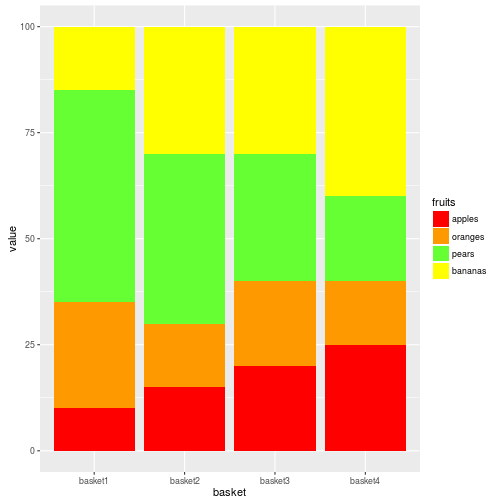
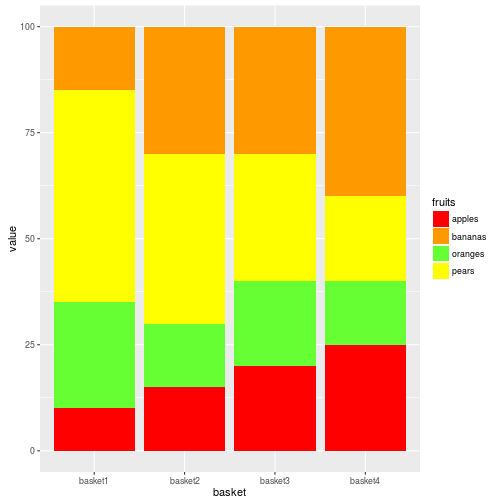
uusi rakenne + r-paketit sktip

diff --git a/R.md b/R.md
@@ -3,20 +3,24 @@ layout: default
 title: "R-kieli"
 author: "Markus Kainu"
 date: "18.02.2016"
+output: 
+ html_document: 
+   toc: true
+   toc_float: true
+   number_sections: yes
 ---
 
 
 
 
-# Datan manipuloiminen
+`Last time updated: **2016-03-03 16:19:23**`
 
-## tidyr & dplyr examples
-
+# Data manipulation
 
 - [tidyr & dplyr cheatsheet](http://www.rstudio.com/wp-content/uploads/2015/01/data-wrangling-cheatsheet.pd)
 - [Garrett Grolemund - Data Wrangling with R slaidit](https://dl.dropboxusercontent.com/u/5896466/wrangling-webinar.pdf)
 
-###  Create the data sets
+##  Create the data sets
 
 ```r
 library(tidyr)
@@ -49,7 +53,7 @@ artists <- data.frame(name = c("George", "John", "Paul", "Ringo"),
                     stringsAsFactors = FALSE)
 ```
 
-### tidyr
+## tidyr
 
 
 ```r
@@ -376,13 +380,7 @@ pollution  %>% group_by(city) %>%
 ```
 
 ```
-## Source: local data frame [3 x 4]
-## 
-##       city  mean   sum     n
-##      (chr) (dbl) (dbl) (int)
-## 1  Beijing  88.5   177     2
-## 2   London  19.0    38     2
-## 3 New York  18.5    37     2
+## Error in n(): This function should not be called directly
 ```
 
 
@@ -394,13 +392,7 @@ pollution %>%
 ```
 
 ```
-## Source: local data frame [3 x 4]
-## 
-##       city  mean   sum     n
-##      (chr) (dbl) (dbl) (int)
-## 1  Beijing  88.5   177     2
-## 2   London  19.0    38     2
-## 3 New York  18.5    37     2
+## Error in n(): This function should not be called directly
 ```
 
 
@@ -415,6 +407,28 @@ pollution %>%
 Error in FUN(X[[1L]], ...) : 
   only defined on a data frame with all numeric variable
 ```
+
+### Rank groups
+
+rank by which "cylinder group" highest total hp. (makes no sense, but was useful)
+
+
+```r
+library(dplyr)
+mtcars %>% 
+  slice(1:10) %>% 
+  select(cyl,hp) %>% 
+  group_by(cyl) %>% 
+  mutate(sum_hp = sum(hp, na.rm = TRUE)) %>% 
+  ungroup() %>% 
+  arrange(sum_hp) %>% 
+  mutate(rank = dense_rank(sum_hp))
+```
+
+```
+## Error in select(., cyl, hp): unused arguments (cyl, hp)
+```
+
 
 ### Järjestä data
 
@@ -482,13 +496,7 @@ pollution  %>% group_by(city) %>%
 ```
 
 ```
-## Source: local data frame [3 x 4]
-## 
-##       city  mean   sum     n
-##      (chr) (dbl) (dbl) (int)
-## 1  Beijing  88.5   177     2
-## 2   London  19.0    38     2
-## 3 New York  18.5    37     2
+## Error in n(): This function should not be called directly
 ```
 
 ```r
@@ -509,20 +517,10 @@ pollution  %>% group_by(city) %>%
 ```
 
 ```
-## Source: local data frame [6 x 6]
-## Groups: city [3]
-## 
-##       city  size amount  mean   sum     n
-##      (chr) (chr)  (dbl) (dbl) (dbl) (int)
-## 1 New York large     23  18.5    37     2
-## 2 New York small     14  18.5    37     2
-## 3   London large     22  19.0    38     2
-## 4   London small     16  19.0    38     2
-## 5  Beijing large    121  88.5   177     2
-## 6  Beijing small     56  88.5   177     2
+## Error in n(): This function should not be called directly
 ```
 
-## join() - merging data.frames
+### join() - merging data.frames
 
 
 ```r
@@ -775,6 +773,21 @@ dplyr::rename(d, newName2=wind, newName3=pressure)
 ## 12  Arthur       45     1010 1996-06-17
 ```
 
+### Rename factor levels
+
+
+```r
+# built-in
+levels(x)[levels(x)=="one"] <- "uno"
+levels(x)[3] <- "three"
+levels(x) <- c("one","two","three")
+
+# plyr
+library(plyr)
+revalue(x, c("beta"="two", "gamma"="three"))
+mapvalues(x, from = c("beta", "gamma"), to = c("two", "three"))
+```
+
 ### Subset data
 
 
@@ -957,7 +970,7 @@ ggplot(data=df,
   scale_fill_manual(values=fill_palette)
 ```
 
-![plot of chunk unnamed-chunk-30](figure/unnamed-chunk-30-1.png)
+![plot of chunk unnamed-chunk-32](figure/unnamed-chunk-32-1.png)
 
 ### Manual ordering
 
@@ -977,7 +990,7 @@ ggplot(data=df,
   scale_fill_manual(values=fill_palette)
 ```
 
-![plot of chunk unnamed-chunk-31](figure/unnamed-chunk-31-1.png)
+![plot of chunk unnamed-chunk-33](figure/unnamed-chunk-33-1.png)
 
 #### Manually match the fills with the fruits
 
@@ -998,7 +1011,7 @@ ggplot(data=df,
   scale_fill_manual(values=fill_palette)
 ```
 
-![plot of chunk unnamed-chunk-32](figure/unnamed-chunk-32-1.png)
+![plot of chunk unnamed-chunk-34](figure/unnamed-chunk-34-1.png)
 
 
 #### Reorder the legend to match the order of the fill
@@ -1018,7 +1031,7 @@ ggplot(data=df,
                     guide = guide_legend(reverse=TRUE))
 ```
 
-![plot of chunk unnamed-chunk-33](figure/unnamed-chunk-33-1.png)
+![plot of chunk unnamed-chunk-35](figure/unnamed-chunk-35-1.png)
 
 #### Reorder the fills manually
 
@@ -1060,7 +1073,7 @@ ggplot(data=dplyr::arrange(df,fruits),
                     guide = guide_legend(reverse=TRUE))
 ```
 
-![plot of chunk unnamed-chunk-35](figure/unnamed-chunk-35-1.png)
+![plot of chunk unnamed-chunk-37](figure/unnamed-chunk-37-1.png)
 
 **With base R**
 
@@ -1079,7 +1092,7 @@ ggplot(data=df[order(df$fruits),],
                     guide = guide_legend(reverse=TRUE))
 ```
 
-![plot of chunk unnamed-chunk-36](figure/unnamed-chunk-36-1.png)
+![plot of chunk unnamed-chunk-38](figure/unnamed-chunk-38-1.png)
 
 
 
@@ -1103,7 +1116,7 @@ ggplot(data=df[order(df$fruits),],
                     guide = guide_legend(reverse=TRUE))
 ```
 
-![plot of chunk unnamed-chunk-37](figure/unnamed-chunk-37-1.png)
+![plot of chunk unnamed-chunk-39](figure/unnamed-chunk-39-1.png)
 
 
 #### Reverse order bars according to oranges share
@@ -1125,7 +1138,7 @@ ggplot(data=df[order(df$fruits),],
                     guide = guide_legend(reverse=TRUE))
 ```
 
-![plot of chunk unnamed-chunk-38](figure/unnamed-chunk-38-1.png)
+![plot of chunk unnamed-chunk-40](figure/unnamed-chunk-40-1.png)
 
 
 
@@ -1152,7 +1165,7 @@ ggplot(data=df[order(df$bar_order),],
                     guide = guide_legend(reverse=TRUE))
 ```
 
-![plot of chunk unnamed-chunk-39](figure/unnamed-chunk-39-1.png)
+![plot of chunk unnamed-chunk-41](figure/unnamed-chunk-41-1.png)
 
 
 #### Match the colors with the fruits
@@ -1176,7 +1189,7 @@ ggplot(data=df[order(df$bar_order),],
   scale_fill_manual(values=fill_palette2)
 ```
 
-![plot of chunk unnamed-chunk-40](figure/unnamed-chunk-40-1.png)
+![plot of chunk unnamed-chunk-42](figure/unnamed-chunk-42-1.png)
 
 
 ### ....

diff --git a/shiny.md b/shiny.md
@@ -1,0 +1,19 @@
+---
+layout: default
+title: "Shiny"
+author: "Markus Kainu"
+date: "18.02.2016"
+---
+
+
+
+
+# Linkkejä
+
+- <http://shiny.rstudio.com/>
+- <http://shiny.rstudio.com/gallery/>
+- <http://shiny.rstudio.com/articles/layout-guide.html>
+- <https://rstudio.github.io/shinydashboard/structure.html>
+- <http://shiny.rstudio.com/articles/tag-glossary.html>
+- <http://shiny.rstudio.com/articles/html-tags.html>
+
